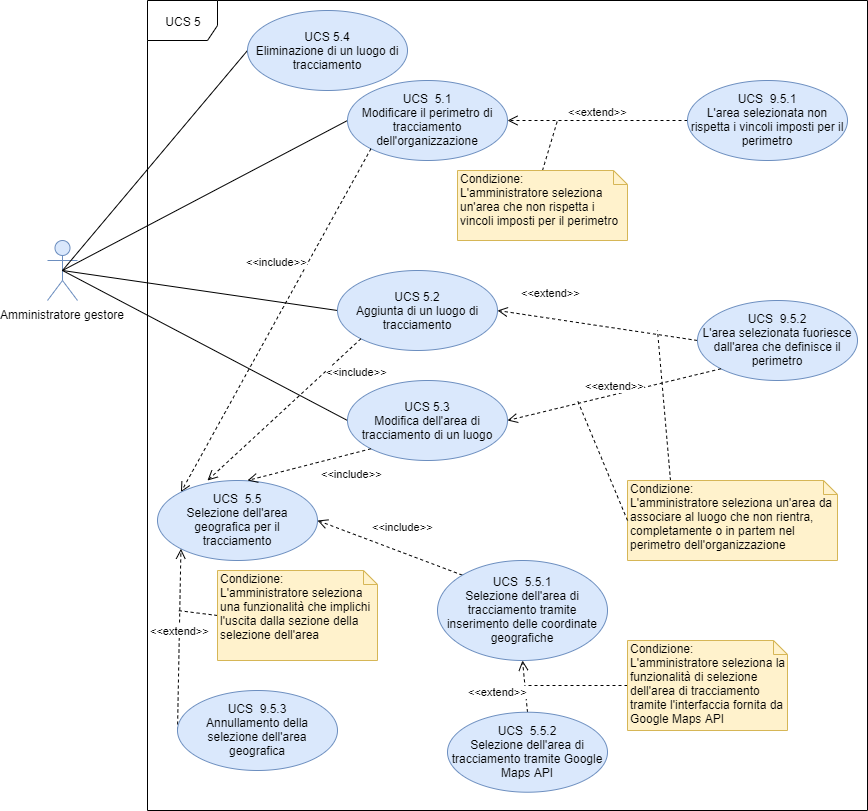
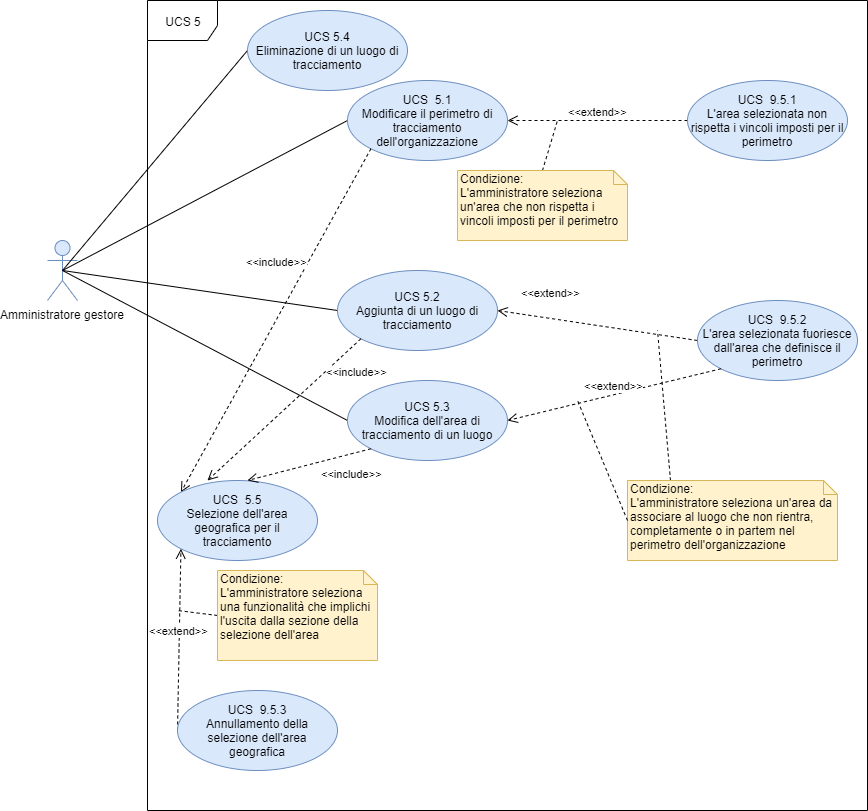
Update dell'UCS 5 dopo una rivisitazione con Salmaso Enrico dei casi d'uso UCS 5 e 6

diff --git a/DocumentazioneEsterna/AnalisiRequisiti/sezioni/UseCase/UCS5.tex b/DocumentazioneEsterna/AnalisiRequisiti/sezioni/UseCase/UCS5.tex
@@ -2,7 +2,7 @@
 \begin{figure}[h]
 	\centering
     \includegraphics[scale=0.53]{sezioni/UseCase/Immagini/UCS5.png}
-    \caption{UCS 5 - Selezione dell'area di tracciamento}
+    \caption{UCS 5 - Modifica delle funzionalità di tracciamento dell'organizzazione}
 \end{figure}
 \begin{itemize}
     \item \textbf{Attori primari:} Amministratore gestore;
@@ -95,6 +95,11 @@
 \end{itemize}
 
 \subsubsection{UCS 5.5 - Selezione dell'area geografica per il tracciamento}%sea level
+\begin{figure}[h]
+	\centering
+    \includegraphics[scale=0.53]{sezioni/UseCase/Immagini/UCS5.5.png}
+    \caption{UCS 5.5 - Selezione dell'area geografica di tracciamento}
+\end{figure}
 \begin{itemize}
 \item \textbf{Attori primari:} Amministratore gestore;
 \item \textbf{Precondizione:} L'amministratore si trova nella sezione di modifica dei parametri\ap{G} dell'organizzazione;
@@ -103,7 +108,7 @@
 \begin{enumerate}
     \item L'amministratore seleziona la funzionalità di selezione dell'area;
     \item Sceglie dunque se il fine dell'area da tracciare è per un luogo\ap{G} dell'organizzazione oppure è per il perimetro\ap{G} di tracciamento;
-    \item L'amministratore seleziona l'area inserendo le coordinate geografiche [5.5.1];
+    \item L'amministratore può scegliere se selezionare l'area inserendo le coordinate geografiche [UCS 5.5.1] oppure tramite Google Maps API [UCS 5.5.2];
 \end{enumerate}
 \begin{itemize}
     \item UCS 9.5.3 - Annullamento della selezione dell'area geografica.
@@ -113,7 +118,7 @@
 \subsubsection{UCS 5.5.1 - Selezione dell'area di tracciamento tramite inserimento delle coordinate geografiche}%fish level
 \begin{itemize}
 \item \textbf{Attori primari:} Amministratore gestore;
-\item \textbf{Precondizione:} L'amministratore si trova nella sezione di modifica dei parametri\ap{G} dell'organizzazione;
+\item \textbf{Precondizione:} L'amministratore si trova nella sezione di modifica dei parametri\ap{G} dell'organizzazione, in particolare nella sezione di selezione;
 \item \textbf{Postcondizione:} L'amministratore ha inserito le coordinate geografiche che delimitano un'area per il tracciamento\ap{G};
 \item \textbf{Flusso di eventi:}
 \begin{enumerate}
@@ -122,17 +127,13 @@
     \item L'amministratore inserisce le coordinate del terzo vertice dell'area di tracciamento\ap{G};
     \item L'amministratore inserisce le coordinate del quarto vertice dell'area di tracciamento\ap{G};
 \end{enumerate}
-\item \textbf{Estensioni:}
-\begin{enumerate}
-    \item UCS 5.5.2 - Selezione dell'area di tracciamento\ap{G} tramite Google Maps API\ap{G}.
-\end{enumerate}
 \end{itemize}
 
 \subsubsection{UCS 5.5.2 - Selezione dell'area di tracciamento tramite Google Maps API}%fish level
 \begin{itemize}
 \item \textbf{Attori primari:} Amministratore gestore;
 \item \textbf{Attori secondari:} Google Maps API\ap{G};
-\item \textbf{Precondizione:} L'amministratore si trova nella sezione di modifica dei parametri dell'organizzazione;
+\item \textbf{Precondizione:} L'amministratore si trova nella sezione di modifica dei parametri\ap{G} dell'organizzazione, in particolare nella sezione di selezione;
 \item \textbf{Postcondizione:} L'amministratore ha selezionato un'area per il tracciamento usufruendo dell'interfaccia di Google Maps API\ap{G};
 \item \textbf{Flusso di eventi:}
 \begin{enumerate}

diff --git a/DocumentazioneEsterna/AnalisiRequisiti/AnalisiRequisiti.tex b/DocumentazioneEsterna/AnalisiRequisiti/AnalisiRequisiti.tex
@@ -32,5 +32,17 @@
 \setcounter{secnumdepth}{0}
 \input{sezioni/UCsection.tex}
 
+\section{Requisiti}
+\setcounter{secnumdepth}{0}
+\input{sezioni/Requisiti/Requisiti_funzionali.tex}
+\clearpage
+\subsection{Requisiti prestazionali}
+\input{sezioni/Requisiti/Requisiti_prestazionali.tex}
+\clearpage
+\subsection{Requisiti di vincolo}
+\input{sezioni/Requisiti/Requisiti_di_vincolo.tex}
+\clearpage
+\subsection{Requisiti di qualità}
+\input{sezioni/Requisiti/Requisiti_di_qualita.tex}
 
 \end{document}

diff --git a/DocumentazioneEsterna/AnalisiRequisiti/sezioni/Requisiti/Requisiti_funzionali.tex b/DocumentazioneEsterna/AnalisiRequisiti/sezioni/Requisiti/Requisiti_funzionali.tex
@@ -1,0 +1,11 @@
+subsection{Requisiti funzionali}
+\rowcolors{2}{pari}{dispari}
+
+\begin{longtable}{ >{\centering}p{0.15\textwidth} >{\centering}p{0.20\textwidth}
+		>{\raggedright}p{0.35\textwidth} >{\centering}p{0.14\textwidth}}
+	\caption{Tabella dei requisiti funzionali}\\
+
+	
+	
+	
+\end{longtable}
